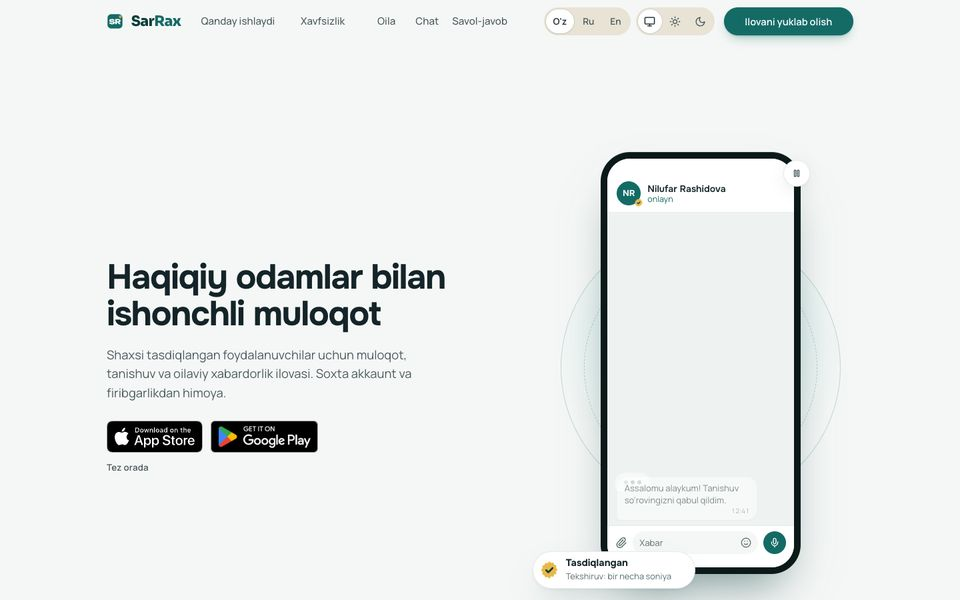
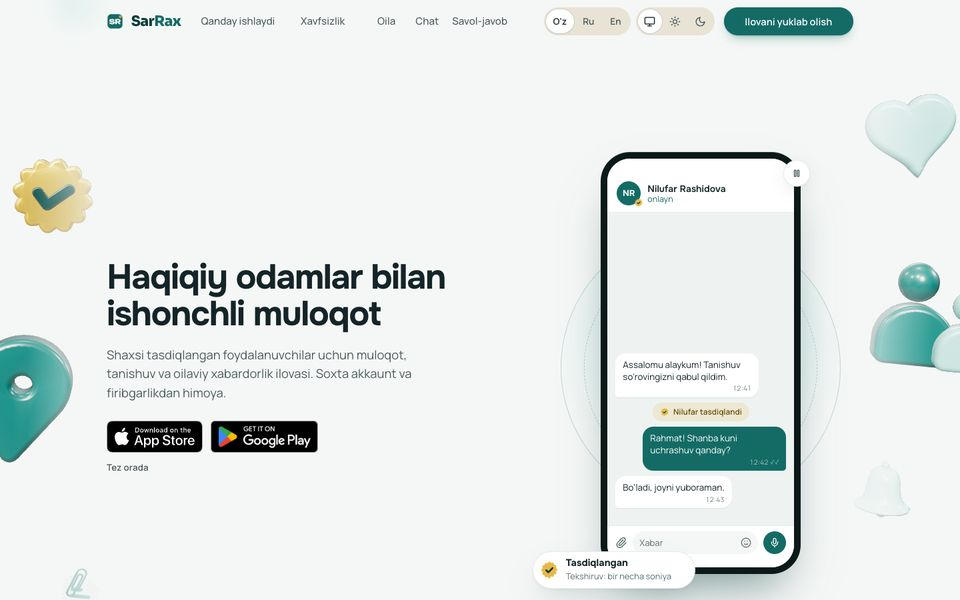
Loyihalar: Geoekofauna qo'shildi, Al Aziz va SarRax skrinshotlari yangilandi; ijtimoiy tarmoqlar bosh sahifa va footer'da
- geoecofauna.uz kartasi (logo + 1440x900 skrinshot), 16 ta loyiha
- alazizacademy.uz yangi dizayni va sarrax.uz yangi bezaklari bo'yicha skrinshotlar
- Aloqa bo'limida Telegram/GitHub/LinkedIn/Instagram ikonkalari (_socials.html)
- footer'ga Instagram, <head> ga Person JSON-LD sameAs

diff --git a/portfolio/templates/portfolio/_socials.html b/portfolio/templates/portfolio/_socials.html
@@ -1,0 +1,6 @@
+<div class="socials" aria-label="Ijtimoiy tarmoqlar">
+  <a href="{{ site.telegram }}" target="_blank" rel="noopener me" aria-label="Telegram {{ site.telegram_user }}" title="Telegram"><svg viewBox="0 0 24 24" fill="currentColor" aria-hidden="true"><path d="M21.94 4.5 18.6 20.2c-.25 1.1-.92 1.38-1.86.86l-5.14-3.79-2.48 2.39c-.27.27-.5.5-1.03.5l.37-5.23 9.52-8.6c.41-.37-.09-.57-.64-.2L5.1 13.34l-5.07-1.59c-1.1-.34-1.12-1.1.23-1.63l19.8-7.63c.92-.34 1.72.2 1.42 1.63z" transform="translate(1 0)"/></svg></a>
+  <a href="{{ site.github }}" target="_blank" rel="noopener me" aria-label="GitHub {{ site.github_user }}" title="GitHub"><svg viewBox="0 0 24 24" fill="currentColor" aria-hidden="true"><path d="M12 2C6.48 2 2 6.58 2 12.25c0 4.53 2.87 8.37 6.84 9.73.5.1.68-.22.68-.49 0-.24-.01-.87-.01-1.71-2.78.62-3.37-1.21-3.37-1.21-.45-1.18-1.11-1.49-1.11-1.49-.91-.64.07-.62.07-.62 1 .07 1.53 1.06 1.53 1.06.89 1.56 2.34 1.11 2.91.85.09-.66.35-1.11.63-1.37-2.22-.26-4.56-1.14-4.56-5.07 0-1.12.39-2.03 1.03-2.75-.1-.26-.45-1.3.1-2.71 0 0 .84-.27 2.75 1.05A9.4 9.4 0 0 1 12 6.84c.85 0 1.71.12 2.51.34 1.91-1.32 2.75-1.05 2.75-1.05.55 1.41.2 2.45.1 2.71.64.72 1.03 1.63 1.03 2.75 0 3.94-2.34 4.81-4.57 5.06.36.32.68.94.68 1.9 0 1.37-.01 2.48-.01 2.82 0 .27.18.6.69.49A10.02 10.02 0 0 0 22 12.25C22 6.58 17.52 2 12 2z"/></svg></a>
+  <a href="{{ site.linkedin }}" target="_blank" rel="noopener me" aria-label="LinkedIn" title="LinkedIn"><svg viewBox="0 0 24 24" fill="currentColor" aria-hidden="true"><path d="M4.98 3.5A2.5 2.5 0 1 1 5 8.5a2.5 2.5 0 0 1-.02-5zM3 9h4v12H3zM9 9h3.8v1.7h.05c.53-1 1.82-2.05 3.75-2.05C20.5 8.65 22 11 22 14.6V21h-4v-5.6c0-1.34-.02-3.06-1.87-3.06-1.87 0-2.16 1.46-2.16 2.96V21H9z"/></svg></a>
+  <a href="{{ site.instagram }}" target="_blank" rel="noopener me" aria-label="Instagram {{ site.instagram_user }}" title="Instagram"><svg viewBox="0 0 24 24" fill="none" stroke="currentColor" stroke-width="2" aria-hidden="true"><rect x="3" y="3" width="18" height="18" rx="5"/><circle cx="12" cy="12" r="4"/><circle cx="17.5" cy="6.5" r="1.1" fill="currentColor" stroke="none"/></svg></a>
+</div>

diff --git a/portfolio/templates/portfolio/index.html b/portfolio/templates/portfolio/index.html
@@ -125,6 +125,7 @@
       <a class="btn primary" href="{{ site.telegram }}" target="_blank" rel="noopener"><span data-i18n="contact.tg">Telegram'da yozish</span> <span aria-hidden="true">↗</span></a>
       <a class="btn" href="mailto:{{ site.email }}"><span data-i18n="contact.mail">Email yuborish</span> <span aria-hidden="true">↗</span></a>
       <a class="contact-form-link" href="{% url 'contact' %}" data-i18n="contact.form_link">yoki sayt orqali xabar qoldiring</a>
+      {% include "portfolio/_socials.html" %}
     </div>
   </div>
 
@@ -135,6 +136,7 @@
       "alaziz-academy": { logo: "{% static 'portfolio/img/projects/alaziz-academy.png' %}", shot: "{% static 'portfolio/img/shots/alaziz-academy.jpg' %}" },
       "jibas": { logo: "{% static 'portfolio/img/projects/jibas.png' %}", shot: "{% static 'portfolio/img/shots/jibas.jpg' %}" },
       "sarrax": { logo: "{% static 'portfolio/img/projects/sarrax.png' %}", shot: "{% static 'portfolio/img/shots/sarrax.jpg' %}" },
+      "geoecofauna": { logo: "{% static 'portfolio/img/projects/geoecofauna.png' %}", shot: "{% static 'portfolio/img/shots/geoecofauna.jpg' %}" },
       "devnest": { logo: "{% static 'portfolio/img/projects/devnest.svg' %}", shot: "{% static 'portfolio/img/shots/devnest.jpg' %}" },
       "bozorlink": { logo: "{% static 'portfolio/img/projects/bozorlink.svg' %}", shot: "{% static 'portfolio/img/shots/bozorlink.jpg' %}" },
       "nevio": { logo: "{% static 'portfolio/img/projects/nevio.png' %}", shot: "{% static 'portfolio/img/shots/nevio.jpg' %}" },

diff --git a/portfolio/static/portfolio/js/projects.js b/portfolio/static/portfolio/js/projects.js
@@ -54,6 +54,17 @@ const PROJECTS = [
     },
   },
   {
+    key: "geoecofauna", kind: "web", name: "Geoekofauna", url: "https://geoecofauna.uz",
+    type: "Ecology · Species Catalog", role: "Backend & DevOps Developer",
+    stack: ["React", "Vite", "Node.js", "SQLite", "Nginx"], platforms: ["Web"],
+    year: 2026, status: "production",
+    desc: {
+      uz: "O'zbekiston biologik xilma-xilligi katalogi: Qizil kitobdagi 206 ta himoyalangan tur, biom modullari, muhofaza kodlari va Qor barsi dasturi, uch tilda.",
+      ru: "Каталог биоразнообразия Узбекистана: 206 охраняемых видов из Красной книги, модули биомов, коды охраны и программа «Снежный барс», три языка.",
+      en: "Uzbekistan biodiversity catalog: 206 Red Book protected species, biome modules, conservation codes and a Snow Leopard program, three languages.",
+    },
+  },
+  {
     key: "devnest", kind: "web", name: "DevNest", url: "https://devnest.uz",
     type: "PaaS · Hosting", role: "Founder & Backend Developer",
     stack: ["Django", "Docker", "Nginx", "PostgreSQL"], platforms: ["Web"],

diff --git a/portfolio/templates/portfolio/base.html b/portfolio/templates/portfolio/base.html
@@ -15,6 +15,7 @@
   <meta property="og:url" content="{{ site.url }}{{ request.path }}">
   {% block extra_head %}{% endblock %}
   <meta property="og:image" content="{{ site.url }}{% static 'portfolio/img/avatar.jpg' %}">
+  <script type="application/ld+json">{"@context": "https://schema.org", "@type": "Person", "name": "{{ site.name }}", "url": "{{ site.url }}", "jobTitle": "{{ site.role }}", "sameAs": ["{{ site.telegram }}", "{{ site.github }}", "{{ site.linkedin }}", "{{ site.instagram }}"]}</script>
 
   <link rel="icon" type="image/svg+xml" href="{% static 'portfolio/img/favicon.svg' %}">
   <link rel="stylesheet" href="{% static 'portfolio/css/style.css' %}">
@@ -69,6 +70,7 @@
         <a href="{{ site.github }}" target="_blank" rel="noopener">GitHub ↗</a>
         <a href="{{ site.linkedin }}" target="_blank" rel="noopener">LinkedIn ↗</a>
         <a href="{{ site.telegram }}" target="_blank" rel="noopener">Telegram ↗</a>
+        <a href="{{ site.instagram }}" target="_blank" rel="noopener">Instagram ↗</a>
         <a href="#top"><span data-i18n="footer.back">Yuqoriga</span> ↑</a>
       </div>
     </div>

diff --git a/portfolio/static/portfolio/css/style.css b/portfolio/static/portfolio/css/style.css
@@ -206,6 +206,10 @@ h2 { font-size: 42px; font-weight: 500; letter-spacing: -1.8px; line-height: 1.1
 .contact-actions .btn { min-width: 240px; }
 .contact-form-link { font-size: 12px; color: var(--muted); text-align: center; }
 .contact-form-link:hover { color: var(--accent-ink); }
+.socials { display: flex; justify-content: center; gap: 10px; margin-top: 4px; }
+.socials a { width: 44px; height: 44px; display: grid; place-items: center; border-radius: 50%; border: 1px solid var(--line); color: var(--muted); transition: color .2s, border-color .2s, transform .2s; }
+.socials a:hover, .socials a:focus-visible { color: var(--accent-ink); border-color: var(--accent-ink); transform: translateY(-2px); }
+.socials svg { width: 18px; height: 18px; }
 
 /* ------------------------------- Ichki sahifalar ------------------------- */
 .page-head { padding: 72px 0 28px; }
